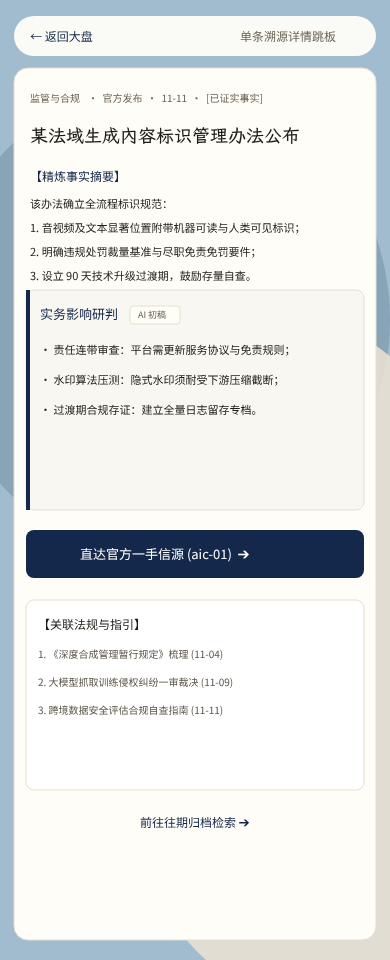
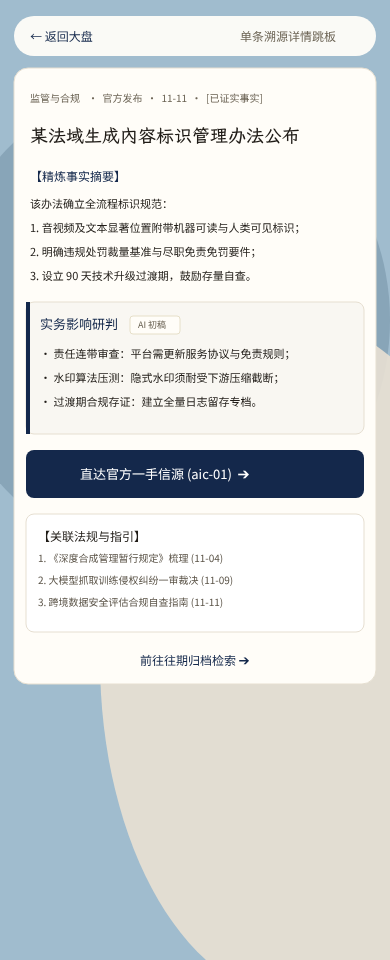
fix(design): B5 - 卡片留白紧凑化、详情页正文居中收敛及R9遗留全面闭环

diff --git a/design/penpot.md b/design/penpot.md
@@ -83,7 +83,7 @@
 5. **双端示例数据与分类筛选规范（D-021 与 B4 交付说明）**：
    - **两端条数取舍（D-021）**：依据 Human 决策，桌面端画板（01、02、04）2026-11-11 当日共展示 **11 条**（适配桌面 3 列网格瀑布流大屏信息密度）；移动端画板（05、06、08）共展示 **6 条**（适配小红书双列紧凑卡片流）。两端条数差异纯属高保真设计阶段对不同视口排版密度的示例数据取舍，不构成产品过滤或发布规则；所有卡片来源行全量标注 `[示例]` 占位标记。画板 04 归档记录对应对齐为 11 条，画板 08 归档记录对应对齐为 6 条。
    - **分类筛选与合规降级提示（画板 02、06）**：
-     - 画板 02（桌面分类筛选）仅呈现选中的“监管与合规”分类条目（来自画板 01 的 2 条合规资讯），并在第二行补充 1 张全宽“信源核验与准入说明”降级提示卡（平实说明其余候选因暂无权威一手信源未纳入本日精选，平实客观，不含夸张修饰词），悬浮分类条各计数与画板 01 完全一致（全部 11、监管 2、模型 1、判例 3、实务 4、资本 1）。
+     - 画板 02（桌面分类筛选）仅呈现选中的“监管与合规”分类条目（来自画板 01 的 2 条合规资讯），并在第二行补充 1 张全宽《本日监管与合规更多候选条目核验说明》（降级提示卡）（平实说明其余候选因暂无权威一手信源未纳入本日精选，平实客观，不含夸张修饰词），悬浮分类条各计数与画板 01 完全一致（全部 11、监管 2、模型 1、判例 3、实务 4、资本 1）。
      - 画板 06（移动分类筛选）仅呈现选中的“监管”分类条目（来自画板 05 的 1 条合规资讯）并在第二列配以 1 张移动端合规降级提示卡，悬浮分类条各计数与画板 05 完全一致（全部 6、监管 1、技术 1、判例 2、实务 1、资本 1）。
    - **R8 细节整改闭环**：
      - H8-1：画板 09 样张区“AI 初稿”与“分类标签”拆分为独立水平行呈现，消除文字重叠。
@@ -93,3 +93,17 @@
    - **用户验收视觉反馈闭环**：
      - 画板 09 底部参数说明块重排：宽度扩充为 350px 消除多余自动换行，说明文本底部结束于 y=985，距玻璃底座卡片底边（y=1050）留出 65px 安全内边距，彻底消除文字漂移溢出卡片外问题。
      - 画板 02 悬浮分类条激活胶囊居中修正：选中胶囊重构为宽 130px、高 54px（圆角 27px），严格以“监管与合规 2”整体（宽 94px）的中心坐标（x=2003）对齐，左右内边距均为 18px，数字“2”完整包覆于平直安全区域内，彻底消除偏心与边缘溢出切字现象。
+6. **B5 批次交付说明（卡片留白紧凑化、跳板页正文居中收敛及 R9 遗留闭环）**：
+   - **A. 卡片内边距与留白（8px 网格与紧凑包裹）**：
+     - 一手信源直达链接统一固定于摘要正文下方 **16px**，卡片高度自适应内容结束（卡片底边距链接 **16px**），摘要底部到链接留白严格 $\le 24\text{px}$（目标 16px）。杜绝全高拉伸造成的垂直空洞。
+     - 桌面端（画板 01）：同列内卡片垂直间距严格统一为 **16px**；3 列之间列间距统一为 **16px**。卡片数量维持既有 11 条配置。
+     - 移动端（画板 05）：列间距统一为 **16px**，左右外边距严格对称设为 **11px**（$390 = 11 + 176 + 16 + 176 + 11$）；同列内垂直间距全量统一为 **16px**。卡片数量维持既有 6 条资讯 + 2 辅助卡配置。
+     - 画板 09 样张区 L/M/S 尺寸规范卡片同步紧凑包裹重排（L 卡高度 255px、M 卡 207px、S 卡 175px）。
+   - **B. 外链详情跳板页居中收敛（画板 03、07）**：
+     - 画板 03（桌面跳板页）：正文列宽度严格限制为 **680px 居中**（在 1132px 白色主卡内居中，x=3542），正文字号 16px、行高 28px（思源黑体，单行约 40 字符）；左侧侧栏精简为仅保留“← 返回今日精选大盘”与“前往历史归档检索 ➔”，彻底消除冗余弹窗与查验人文字；实务影响研判框（高 156px）与关联法规框（高 123px）高度收紧包裹内容，消除多余空白。
+     - 画板 07（移动跳板页）：摘要点 3 到实务影响研判框间距设为 **20px**（严格 $\ge 16\text{px}$）；实务影响研判框（高 132px）与关联法规框（高 118px）高度收紧包裹内容。
+   - **C. R9 遗留项全面闭环**：
+     - **H9-1**：画板 09 样张区“分类标签”完整纳入白色容器底板（swatches-container，y=944..1036，距底边留出 14px 安全内边距）。
+     - **H9-2**：画板 01 瀑布流卡片紧凑化后，第一列卡片 09 结束于 y=861、第二列卡片 10 结束于 y=804、第三列卡片 11 结束于 y=832，所有卡片与文本均距分类条顶沿（y=960）留出 99px+ 清洁缓冲区，彻底消除条内重影、左上残字与右下灰边。
+     - **H9-3**：画板 01、02 悬浮分类条“全部”项补充角标“11”（画板 01 激活胶囊内为白字，画板 02 未激活态为墨灰字 `#6B6354`）。
+     - **H9-4**：画板 02 左下角轮播卡与画板 01 完全对齐；统一降级提示卡名称为《本日监管与合规更多候选条目核验说明》。

diff --git a/design/design-system.md b/design/design-system.md
@@ -143,7 +143,7 @@ LexAIDaily 面向执业律师、企业法务、合规官、法律科技从业者
 1. **来源行**：分类 · 事实层级（已证实事实/官方数据/市场观点）· 来源域名 · 日期（12.5px 思源黑体，墨灰 `#6B6354`，对比度 5.84:1）。
 2. **核心标题**：18–32 字主标题（霞鹜文楷，墨黑 `#1F1B16`）。
 3. **事实摘要**：精炼事实描述（15px / 行高 26px 思源黑体，次要墨灰 `#5C5549`）。
-4. **一手信源直达**：`example.com/source ↗`（下划线链接，悬停变深海军蓝）。
+4. **一手信源直达**：`example.com/source ↗`（下划线链接，悬停变深海军蓝）。一手信源链接固定于摘要正文下方 **16px**，摘要底部到链接留白严格 $\le 24\text{px}$（目标 16px）。卡片高度自适应包裹内容结束（底部留白 16px），杜绝固定撑高导致的大面积垂直空白。
 
 > **严格禁令**：**列表卡片严禁出现实务影响框**。实务影响内容一律收敛于详情跳板页。
 
@@ -151,9 +151,15 @@ LexAIDaily 面向执业律师、企业法务、合规官、法律科技从业者
 
 依据 Human 决策 D-021，桌面端原型展示 11 条（适配三列网格瀑布流大屏密度），移动端展示 6 条（适配双列紧凑流），两端条数差异纯属高保真设计阶段对不同视口排版密度的示例数据取舍，不构成产品规则。全量卡片均统一标注 `[示例]` 占位标记。
 
-当用户在分类切换条中筛选特定分类（如“监管与合规”）时，页面仅展示属于该分类的既有卡片，并在列表末尾配置一张**合规降级提示卡**：
+当用户在分类切换条中筛选特定分类（如“监管与合规”）时，页面仅展示属于该分类的既有卡片，并在列表末尾配置一张**《本日监管与合规更多候选条目核验说明》（合规降级提示卡）**：
 - **文案风格**：平实、客观、严谨，杜绝夸张或感叹词。明确说明其余候选条目因暂无权威一手信源或处于非公开核验阶段，未纳入本日精选，提示读者切换“全部”或历史归档查看。
 - **卡片样式**：与实色资讯卡片保持同规格圆角（16px）与边框（1px `#E6DFC8`），无过度修饰，提供通向采编准则的一手信源链接。
+
+### 4.4 网格与间距约束（8px 空间网格）
+
+- **桌面端**：同列内卡片垂直间距统一为 **16px**；3 列之间列间距统一为 **16px**；卡片紧凑包裹内容结束，底层留出 $\ge 90\text{px}$ 缓冲净空区，彻底杜绝文字或边框侵入底部悬浮分类条。
+- **移动端**：双列网格列间距统一为 **16px**，左右外边距严格对称设为 **11px**（$390 = 11 + 176 + 16 + 176 + 11$）；同列内垂直卡片间距全量统一为 **16px**。
+
 
 ---
 
@@ -188,13 +194,17 @@ LexAIDaily 面向执业律师、企业法务、合规官、法律科技从业者
 
 详情跳板页（画板 03 桌面端、画板 07 移动端）是读者查验溯源与实务研判的核心中继站：
 
-1. **核心标题与元数据**：全量展示资讯标题、原始发布机构、效力状态及发布时间。
+1. **核心标题与元数据**：全量展示资讯标题、原始发布机构、效力状态及发布时间。桌面端正文列宽度严格限制为 **680px 居中**（在 1132px 白色主卡内居中，正文字号 16px，行高 28px 思源黑体，单行约 40 字符），提供最佳长文扫读与合规审查舒适度。
 2. **完整事实摘要**：客观交代事件全貌。
 3. **实务影响深度研判（专属于此）**：
    - 包含法务行动建议、合规审查清单与业务风险提示。
-   - **强制标识**：左上角显著标明 `[AI 初稿]`（未获 Human 确认前必须保留）。
+   - **强制标识**：显著标明 `[AI 初稿]`（未获 Human 确认前必须保留）。
+   - **紧凑包裹**：实务影响框与关联法规框高度严格贴合文本内容结束（如桌面端分别为 156px 与 123px，移动端分别为 132px 与 118px），杜绝大面积空白空洞。
+   - **移动端间距**：移动端摘要点 3 到实务影响研判框间距调整为 **20px**（严格 $\ge 16\text{px}$）。
 4. **一手信源直达跳转核心按键**：
-   - 突出展示官方一手原文直达按键（如 `直达官方一手原文 ↗`），附带防钓鱼与免责声明，无一手链接严禁入选。
+   - 突出展示官方一手原文直达按键（如 `直达官方一手信源 ➔`），附带防钓鱼与免责声明，无一手链接严禁入选。
+5. **左侧侧栏极简控制**：
+   - 桌面端左侧仅保留“← 返回今日精选大盘”与“前往历史归档检索 ➔”两枚核心导航按键，彻底删除“单条溯源跳板模式”弹窗框体与查验人多余文字。
 
 ---
 
